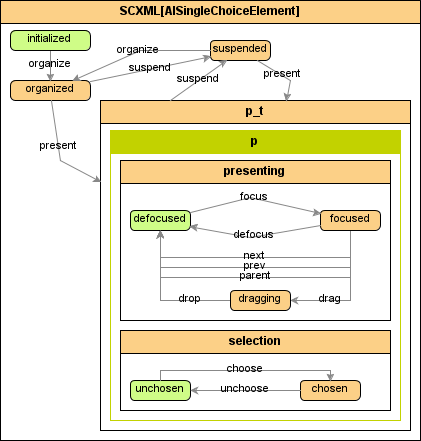
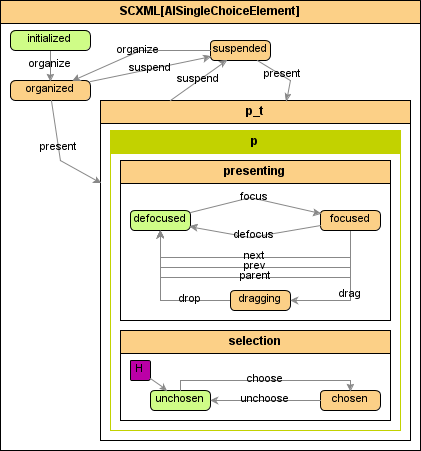
history state not working for scxml (AISingleChoiceElement) All tests running for .rb version of the statemachines

Changed region(s): [[0.0, 0.0, 1.0, 1.0], [0.1853, 0.3832, 0.247, 0.4127]]

diff --git a/spec/aisinglechoice_spec.rb b/spec/aisinglechoice_spec.rb
@@ -60,6 +60,7 @@ describe 'SingleChoice' do
       @e3.process_event(:present)
       @e4.process_event(:present)
     end
+
     it 'should deactivate other chosen elements on choose' do
       @e1.process_event(:focus).should == [:focused, :unchosen]
       @e1.new_states.should == [:focused]
@@ -73,6 +74,23 @@ describe 'SingleChoice' do
       @e1.states.should == [:focused, :unchosen]
 
     end
+
+    it 'should accept drag event in unchosen or chosen' do
+      @e1.process_event(:focus).should == [:focused, :unchosen]
+      @e1.states.should == [:focused, :unchosen]
+
+      @e1.process_event(:drag).should == [:dragging, :chosen]
+      @e1.states.should == [:dragging, :chosen]
+
+      @e1.process_event(:drop).should == [:defocused, :chosen]
+      @e1.states.should == [:defocused, :chosen]
+
+      @e1.process_event(:focus).should == [:focused, :chosen]
+      @e1.states.should == [:focused, :chosen]
+
+      @e1.process_event(:drag).should == [:dragging, :chosen]
+      @e1.states.should == [:dragging, :chosen]
+  end
 
     it 'should hide child elements on suspend' do
       sc =MINT::AISingleChoice.first(:name => "choice")
@@ -119,7 +137,7 @@ describe 'SingleChoice' do
       e1 = MINT::AISingleChoiceElement.first(:name => "element_1")
       e1.process_event(:drag)
       #e1.process_event(:drop)
-      dest =MINT::AISingleChoice.create(:name => "choice_dest",:states => [:defocused,:listing])
+      dest =MINT::AISingleChoice.create(:name => "choice_dest",:states => [:defocused,:unchosen])
       dest.process_event(:drop)
       #dest.childs << e1
       #p dest.childs.save

diff --git a/lib/MINT-core/model/aui/AIChoice.rb b/lib/MINT-core/model/aui/AIChoice.rb
@@ -2,10 +2,9 @@ module MINT
   class AIChoice < AIC
     def initialize_statemachine
       if @statemachine.blank?
-=begin
         parser = StatemachineParser.new(self)
         @statemachine = parser.build_from_scxml "lib/MINT-core/model/aui/aichoice.scxml"
-=end
+=begin
  @statemachine = Statemachine.build do
           trans :initialized,:organize, :organized
           trans :organized, :present, :p_t
@@ -39,23 +38,26 @@ module MINT
               end
               statemachine :s2 do
                 superstate :l do
-                  trans :listing, :drop, :listing, :add_element, Proc.new{In(:focus)}
+                  trans :listing, :drop, :listing, :add_element
                 end
               end
             end
           end
         end
+=end
       @statemachine.reset
       end
     end
     def add_element
-      f = AISingleChoiceElement.first(:new_states=> /#{Regexp.quote("dragging")}/)
-      self.childs << f
-      self.childs.save
-      f.process_event(:drop)
-      f.process_event(:focus)
-      self.process_event(:defocus)
-      f.destroy
+      if self.is_in? :focused
+        f = AISingleChoiceElement.first(:new_states=> /#{Regexp.quote("dragging")}/)
+        self.childs << f
+        self.childs.save
+        f.process_event(:drop)
+        f.process_event(:focus)
+        self.process_event(:defocus)
+        f.destroy
+      end
     end
   end
 

diff --git a/lib/MINT-core/model/aui/AISingleChoiceElement.rb b/lib/MINT-core/model/aui/AISingleChoiceElement.rb
@@ -2,6 +2,10 @@ module MINT
   class AISingleChoiceElement < AIINChoose
     def initialize_statemachine
       if @statemachine.blank?
+        parser = StatemachineParser.new(self)
+        @statemachine = parser.build_from_scxml "lib/MINT-core/model/aui/aisinglechoiceelement.scxml"
+
+=begin
         @statemachine = Statemachine.build do
 
 #          superstate :AIO do # TODO not supported so far!
@@ -30,8 +34,7 @@ module MINT
                   trans :focused, :next, :defocused, :focus_next,  Proc.new { exists_next}
                   trans :focused, :prev, :defocused, :focus_previous, Proc.new { exists_prev}
                   trans :focused, :parent, :defocused, :focus_parent
-                  trans :focused, :drag, :dragging, nil, Proc.new{ In(:chosen) }
-                  trans :focused, :drag, :dragging, :choose, Proc.new { In(:unchosen)}
+                  trans :focused, :drag, :dragging, :choose
                   trans :dragging, :drop, :defocused
                 end
               end
@@ -50,10 +53,18 @@ module MINT
             end
           end
         end
+=end
       end
     end
     def remove_from_origin
         self.parent.childs.get(self.id).destroy
     end
+
+    def choose
+      if self.is_in? :unchosen
+        self.process_event(:choose)
+      end
+    end
+
   end
 end

diff --git a/lib/MINT-core/model/aui/AIC.rb b/lib/MINT-core/model/aui/AIC.rb
@@ -8,10 +8,9 @@ module MINT
 
     def initialize_statemachine
       super
-=begin
       parser = StatemachineParser.new(self)
       @statemachine = parser.build_from_scxml "lib/MINT-core/model/aui/aic.scxml"
-=end
+=begin
 @statemachine = Statemachine.build do
         superstate :AIC do
           trans :initialized,:organize, :organized
@@ -26,7 +25,8 @@ module MINT
 
           superstate :presenting do
             on_entry :inform_parent_presenting
-            event :suspend, :suspended, :hide_children #TODO AIC will suspend children?
+            on_exit :hide_children
+            event :suspend, :suspended
 
             state :defocused do
               on_entry :sync_cio_to_displayed
@@ -44,6 +44,7 @@ module MINT
           end
         end
       end
+=end
     end
 
     def hide_children

diff --git a/spec/aio_spec.rb b/spec/aio_spec.rb
@@ -110,7 +110,6 @@ describe 'AUI' do
     end
     
     it 'should not defocus on next if there is no next element' do
-      
       @a.states=[:focused]
       @a.process_event(:next)
       @a.states.should == [:focused]
